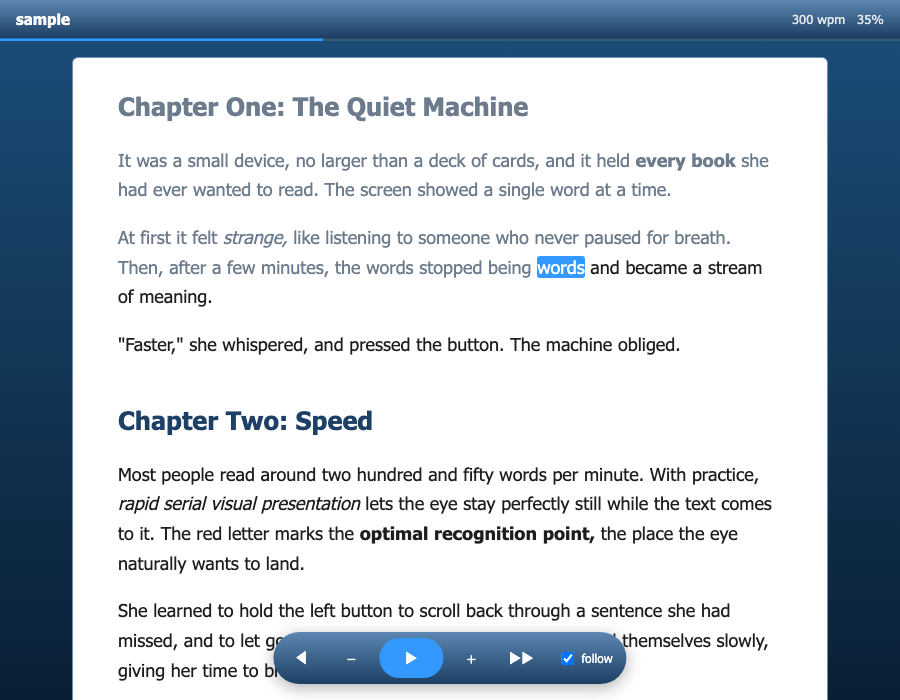
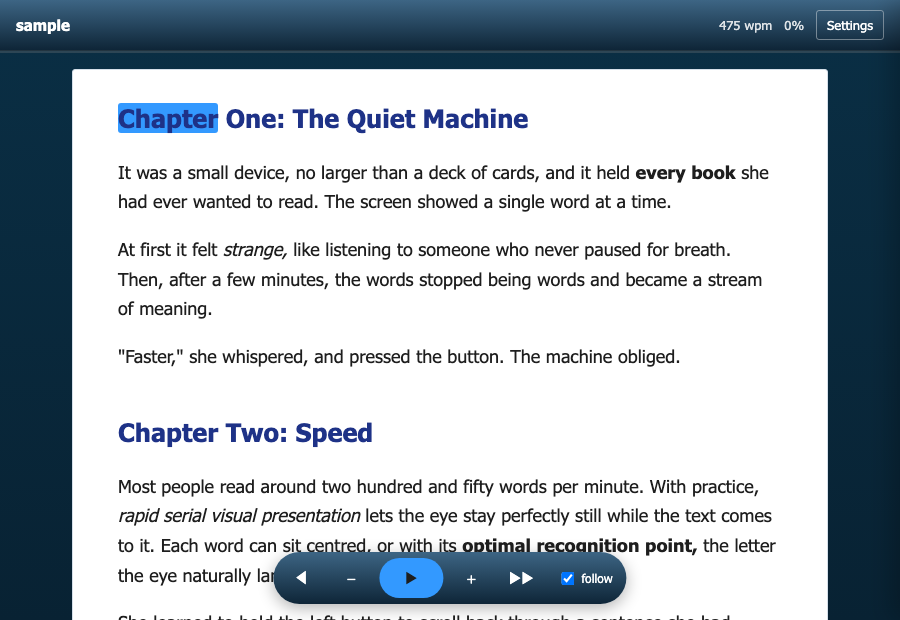
Concise README with a code treemap; LICENSE (MIT); font licences; fresh screenshots

diff --git a/README.md b/README.md
@@ -1,91 +1,79 @@
 # Fast Reader
 
-A one-word-at-a-time (RSVP) speed reader for the **LCDWIKI ES3C28P** (ESP32-S3, 2.8" 320×240 IPS, touch), written in Rust. Inspired by [AllanBinder/ereader](https://github.com/AllanBinder/ereader); see [AUDIT.md](AUDIT.md) for how the two compare and how every function was checked.
+A speed reader (RSVP) for a 2.8" ESP32-S3 touch display, written in Rust:
+one word, phrase or page at a time, books and pictures on an SD card, and a
+phone page to read along, change settings and add books over Wi-Fi.
 
-- Words centred on a clean page; chapter titles bold and on screen longer; bold and italic kept.
-- Hold ⏮/⏭ while reading to scroll the text as a line.
-- Library of several books, each remembering where you stopped (saved in flash, survives power-off).
-- **Bookmarks:** tap the page's top-right corner to dog-ear the place; the corner folds down with a soft shadow. Tap again to remove. Menu → Bookmarks lists them; the web view marks them too.
-- **Pictures and charts** from EPUBs and PDFs (vector charts included) fill the screen for 4× a word's time; in page view they sit in the text.
-- **Four menus in the title bar:** ⚙ Settings (speed, pace, skip, theme, brightness, rotation, Wi-Fi, info, sleep) · 📖 Book (resume, chapters, bookmarks, go to %, start over, delete a book…) · 📚 Library (the book list) · Aa Text (mode, size, font, words per flash, word position, spacing, paragraphs, alignment, parentheses). The ▲▼ keys run through all four in order.
-- **Word position:** Centred (default) or Recognition point. With the recognition point, words over 13 letters come in two flashes split at a syllable ("contempo-" "raneamente"), as Spritz does, so the point never moves.
-- **Picture time** (Aa Text): 2, 4, 8 or 15 seconds, or until you press play; counted from when the picture is on screen.
-- **The sentence under the word** (while paused) follows the word; when it is longer than two lines, small ▲▼ beside it scroll through it.
-- **Recognition point follows published practice:** one fixation point a little left of centre. A single word puts its optimal recognition letter there (Spritz patent US9483109, OpenSpritz, Jetzt: 2nd letter of 2–5-letter words, 3rd of 6–9, 4th of 10–13), uncoloured. A phrase starts about 3½ letters before it, since readers take in ~4 letters left and ~15 right of a fixation (McConkie & Rayner), which is why the original e-reader uses a fixed left edge. Text never changes size; only a group wider than the screen shrinks, and a long one starts further left.
-- **⏮ like a music player:** a second press within 2.5 s goes one more sentence/phrase back, even if playing moved on meanwhile.
-- **Brackets** — round ( ), square [ ], curly { }, angle < > and << >>, guillemets « » ‹ › — read as punctuation: a short breath as an aside opens and closes. Each closing bracket is matched with its opening one across the whole book, even when a page break splits the aside. Optionally the brackets (of the right kind) become marks at the screen's sides in word/phrase modes (Aa → Brackets).
-- Six themes (Vista, macOS, Scrivener, Windows 98, E-Ink, Night), six reading fonts, anti-aliased.
-- Four reading modes: word by word, phrases (fixed groups of 1–3 words that end at sentences, starting at the same left point, as on the original e-reader), ticker (the line steps word by word like a typewriter carriage; nothing glides), page (normal text with a moving phrase highlight).
-- **microSD card:** books and every picture live on the card (any size; a scanned art book with 368 illustrations is ~31 MB). ⚙ Settings → SD card shows the free space and can **Erase and format** it (FAT32; the reader can't read exFAT, which most cards over 32 GB and many used cards have). Without a card, books go to the reader's own flash (3 MB each, pictures shrunk to fit).
-- **Big scanned books** (hundreds of pages of page photos) are too heavy for a phone's browser (over 1 GB of memory): the phone says so and suggests a computer, either the same page at http://192.168.4.1 in a desktop browser, or `tools/convert.py --sd` with the card in the computer (Gombrich, 702 pages: 8 s, 422 pictures).
-- **Add books from the phone:** EPUB, PDF, Markdown or text, converted in the phone's browser (chapters, bold/italic, pictures, running heads and page numbers removed, page-split sentences rejoined). pdf.js is served by the reader itself, so no internet is needed.
-- A browser view of the book plus every setting: on the device, Menu → Web view, join Wi-Fi "FastReader", open http://192.168.4.1.
+![The six themes](docs/themes.png)
 
-## Controls: one meaning per key, on every screen
+- **Four ways to read:** word by word, phrases (up to 3 words, ending at sentences), a typewriter ticker, and normal pages.
+- **Placed by the book, not the screen:** words centred or on a fixed recognition point (Spritz rule, long words split at a syllable); bold, italic and chapter titles kept; brackets read as asides.
+- **Real books:** EPUB, PDF (scanned ones too), Markdown; pictures with their captions, shown for a set time; bookmarks as a folded page corner.
+- **A phone page:** join the reader's Wi-Fi, the book opens in the browser, follows your place, changes every setting, converts and sends new books.
+- **Six themes:** Vista, macOS, Scrivener, Windows 98, E-Ink, Night.
 
-| On screen | Physical key | Reading | Page view | Menus |
-|---|---|---|---|---|
-| ⚙ 📖 📚 Aa (top-left) | BOOT long press (opens 📖) | Settings · Book · Library · Text menus | same | close |
-| − / + | ▼ / ▲ | speed ∓25 wpm (hold repeats) | speed ∓25 wpm | move |
-| ⏮ / ⏭ | ◀ / ▶ | jump back/forward (amount in menu) · **hold: scroll line** | previous / next page (hold repeats) | back / open |
-| page corner (top-right) | – | bookmark here / remove | bookmark this page / remove | – |
-| ‹ › (thin, beside play) | – | one word back / forward, and pause | the same | – |
-| ▶ ❚❚ | BOOT short press | play / pause | play / pause the moving highlight | choose |
+## The code, by size
 
-**Optional physical buttons:** wire momentary switches from these pins to GND (no resistors needed): GPIO 2 = ▲, GPIO 3 = ▼, GPIO 14 = ◀, GPIO 21 = ▶. They behave exactly like the on-screen buttons, including hold-to-repeat and hold-to-scroll; BOOT stays select (short) / menu (long).
-
-A tap acts on release, sliding off cancels, and there are no swipes or invisible zones. Every press lights its button and shows a short message in the title bar (amber means a limit, like the fastest speed). Info appears only while paused.
-
-## Books
-
-```sh
-python3 -m venv tools/.venv && tools/.venv/bin/pip install pymupdf
-tools/.venv/bin/python tools/convert.py book.epub paper.pdf notes.txt   # → books/private/*.md
-tools/.venv/bin/python tools/convert.py big-scan.pdf --sd /Volumes/FASTREADER   # straight onto the reader's SD card, every picture kept
 ```
-### Book format
-
-Plain text with a few marks:
-
-| Mark | Meaning |
-|---|---|
-| `# Title` | chapter title: bold, on screen longer (2× by default) |
-| `**bold**` `*italic*` | kept as bold / italic |
-| blank line | new paragraph (longer pause) |
-| `{pause}` / `{pause:3}` | an extra beat (or 3) after the previous word, for dramatic effect |
-| `{slow}` … `{/slow}` | that passage at 1.4× the time |
-| `{verse}` … `{/verse}` | poetry: each line break is kept on the page and gets a breath |
-| `{image:N}` | picture N from the image section after the text (written by the converters) |
-
-The marks follow the spirit of SSML (the W3C speech-timing standard: `<break>`, `<prosody rate="slow">`) in a form that stays readable as plain text.
-
-The converter keeps chapters (table of contents, larger or all-bold lines, EPUB headings), bold and italic, and drops running headers, page numbers and hyphenation. `books/private/` is git-ignored. Books live on the SD card (or, without a card, in the reader's flash when uploaded); none are built into the firmware any more. Only a short welcome text is, shown when there is no book at all.
-
-## Run
-
-```sh
-cargo run -p reader-sim --release                 # window + browser view at http://localhost:8080
-cargo run -p reader-sim --release -- --headless   # only the browser view
-cargo run -p reader-sim --release -- walkthrough out/   # PNG of every function in every theme
-cargo test --workspace                            # 129 tests: logic, layout, rendering, efficiency
-cargo bench -p reader-ui
-
-# device (espup + espflash installed)
-. ~/export-esp.sh
-cd firmware && cargo run --release                # add --features selftest to log load/paint timings
+┌──────────────────────────────────────┬──────────────────────────────────┐
+│ reader-core  38%   logic, no_std     │ reader-ui  30%   drawing, no_std │
+│ ┌─────────────────┬────────────────┐ │ ┌───────────────┬──────────────┐ │
+│ │ app.rs          │ book.rs        │ │ │ painter.rs    │ layout.rs    │ │
+│ │ keys → actions, │ markup, pacing,│ │ │ every screen, │ buttons and  │ │
+│ │ menus, feedback │ brackets, pics │ │ │ redraw boxes  │ touch areas  │ │
+│ ├──────────┬──────┴─────┬──────────┤ │ ├───────────────┼──────────────┤ │
+│ │ reader.rs│ settings.rs│ gestures │ │ │ web.rs        │ canvas, text │ │
+│ │ timing   │ by name    │ chunked  │ │ │ phone server  │ themes, icons│ │
+│ └──────────┴────────────┴──────────┘ │ └───────────────┴──────────────┘ │
+├───────────────────┬──────────┬───────┴──┬───────────┬───────────────────┤
+│ firmware  12%     │ sim  6%  │ tools 6% │ web  6%   │ fat-format  2%    │
+│ ESP32-S3: display,│ desktop  │ convert, │ the phone │ formats the SD    │
+│ touch, SD, Wi-Fi  │ + tests  │ OCR→EPUB │ page      │ card as FAT32     │
+└───────────────────┴──────────┴──────────┴───────────┴───────────────────┘
 ```
 
-`backup/es3c28p-photo-frame-full-flash.bin` restores the photo-frame firmware: `espflash write-bin 0 backup/es3c28p-photo-frame-full-flash.bin`.
+Everything that decides what you see is in the two `no_std` crates, tested on
+the desktop (155 tests, including randomized stress runs); the firmware only
+moves pixels, touches and bytes.
 
-## Layout
+## Controls
 
-| Path | What |
-|---|---|
-| `crates/reader-core` | `no_std` logic: books and markup, pacing, keys → actions, feedback, touch gestures, settings |
-| `crates/reader-ui` | `no_std` renderer: canvas, TrueType text, themes, layout + hit testing, painter |
-| `crates/reader-sim` | desktop window, browser view and settings server, walkthrough |
-| `firmware` | ES3C28P: display, touch, buttons, backlight, flash storage, SD card, embedded books |
-| `crates/fat-format` | FAT32 formatter for the SD card (`no_std`), checked against macOS `fsck_msdos` |
-| `tools/convert.py` | EPUB/PDF/TXT → reader markup |
+| On screen | Key | Reading | Page view |
+|---|---|---|---|
+| ⚙ 📖 📚 Aa | BOOT long | Settings · Book · Library · Text | same |
+| − / + | ▼ / ▲ | speed ∓25 wpm | same |
+| ⏮ / ⏭ | ◀ / ▶ | back / forward a sentence · hold: scroll | previous / next page |
+| ‹ / › | – | one word, and pause | same |
+| ▶ | BOOT short | play / pause | same |
+| page corner | – | bookmark | same |
 
-Add a theme: copy a file in `crates/reader-ui/src/themes/`, change colours and button styles, list it in `themes/mod.rs`.
+## Run it
+
+```sh
+cargo test --workspace                                   # logic, drawing, web, stress
+cargo run -p reader-sim --release                        # desktop window + phone page on :8080
+cargo run -p reader-sim --release -- walkthrough out/    # a PNG of every screen and theme
+
+. ~/export-esp.sh && cd firmware                         # the device (espup, espflash)
+cargo run --release
+```
+
+Books: `tools/convert.py book.epub scan.pdf --sd /Volumes/FASTREADER` writes
+them straight to the card; `tools/ocr_book.py scan.pdf book.epub` turns a
+scanned PDF into a real EPUB (LightOnOCR-2, text plus every illustration).
+Or add them from the phone page.
+
+## Hardware
+
+LCDWIKI **ES3C28P**: ESP32-S3 with 8 MB PSRAM, 2.8" 320×240 IPS (ILI9341V),
+FT6336 touch, microSD slot (FAT32; the reader formats it), Li-ion charging.
+Optional buttons on GPIO 2, 3, 14, 21 to GND.
+
+## More
+
+[VERIFY.md](VERIFY.md) on-device checklist · [AUDIT.md](AUDIT.md) how
+everything was checked · [PLAN.md](PLAN.md) what's next
+
+Inspired by [AllanBinder/ereader](https://github.com/AllanBinder/ereader).
+Code MIT ([LICENSE](LICENSE)); fonts SIL OFL 1.1 ([assets/fonts](assets/fonts/LICENSE.md));
+pdf.js Apache-2.0 ([assets/web](assets/web)).

diff --git a/assets/fonts/LICENSE.md b/assets/fonts/LICENSE.md
@@ -1,0 +1,16 @@
+# Fonts
+
+Latin subsets (made with `tools/make_fonts.py`) of these families, all under
+the [SIL Open Font License 1.1](https://openfontlicense.org):
+
+| Files | Family | Source |
+|---|---|---|
+| atkinson-* | Atkinson Hyperlegible | Braille Institute |
+| literata-* | Literata | TypeTogether / Google Fonts |
+| plexsans-*, plexserif-*, plexmono-* | IBM Plex | IBM |
+| crimson-* | Crimson Pro | Jacques Le Bailly / Google Fonts |
+| courier-* | Courier Prime | Quote-Unquote Apps |
+| gelasio-* | Gelasio | Eben Sorkin / Google Fonts |
+
+The files are subsets for the reader's screen; the originals and their full
+licence texts are at the sources above.
